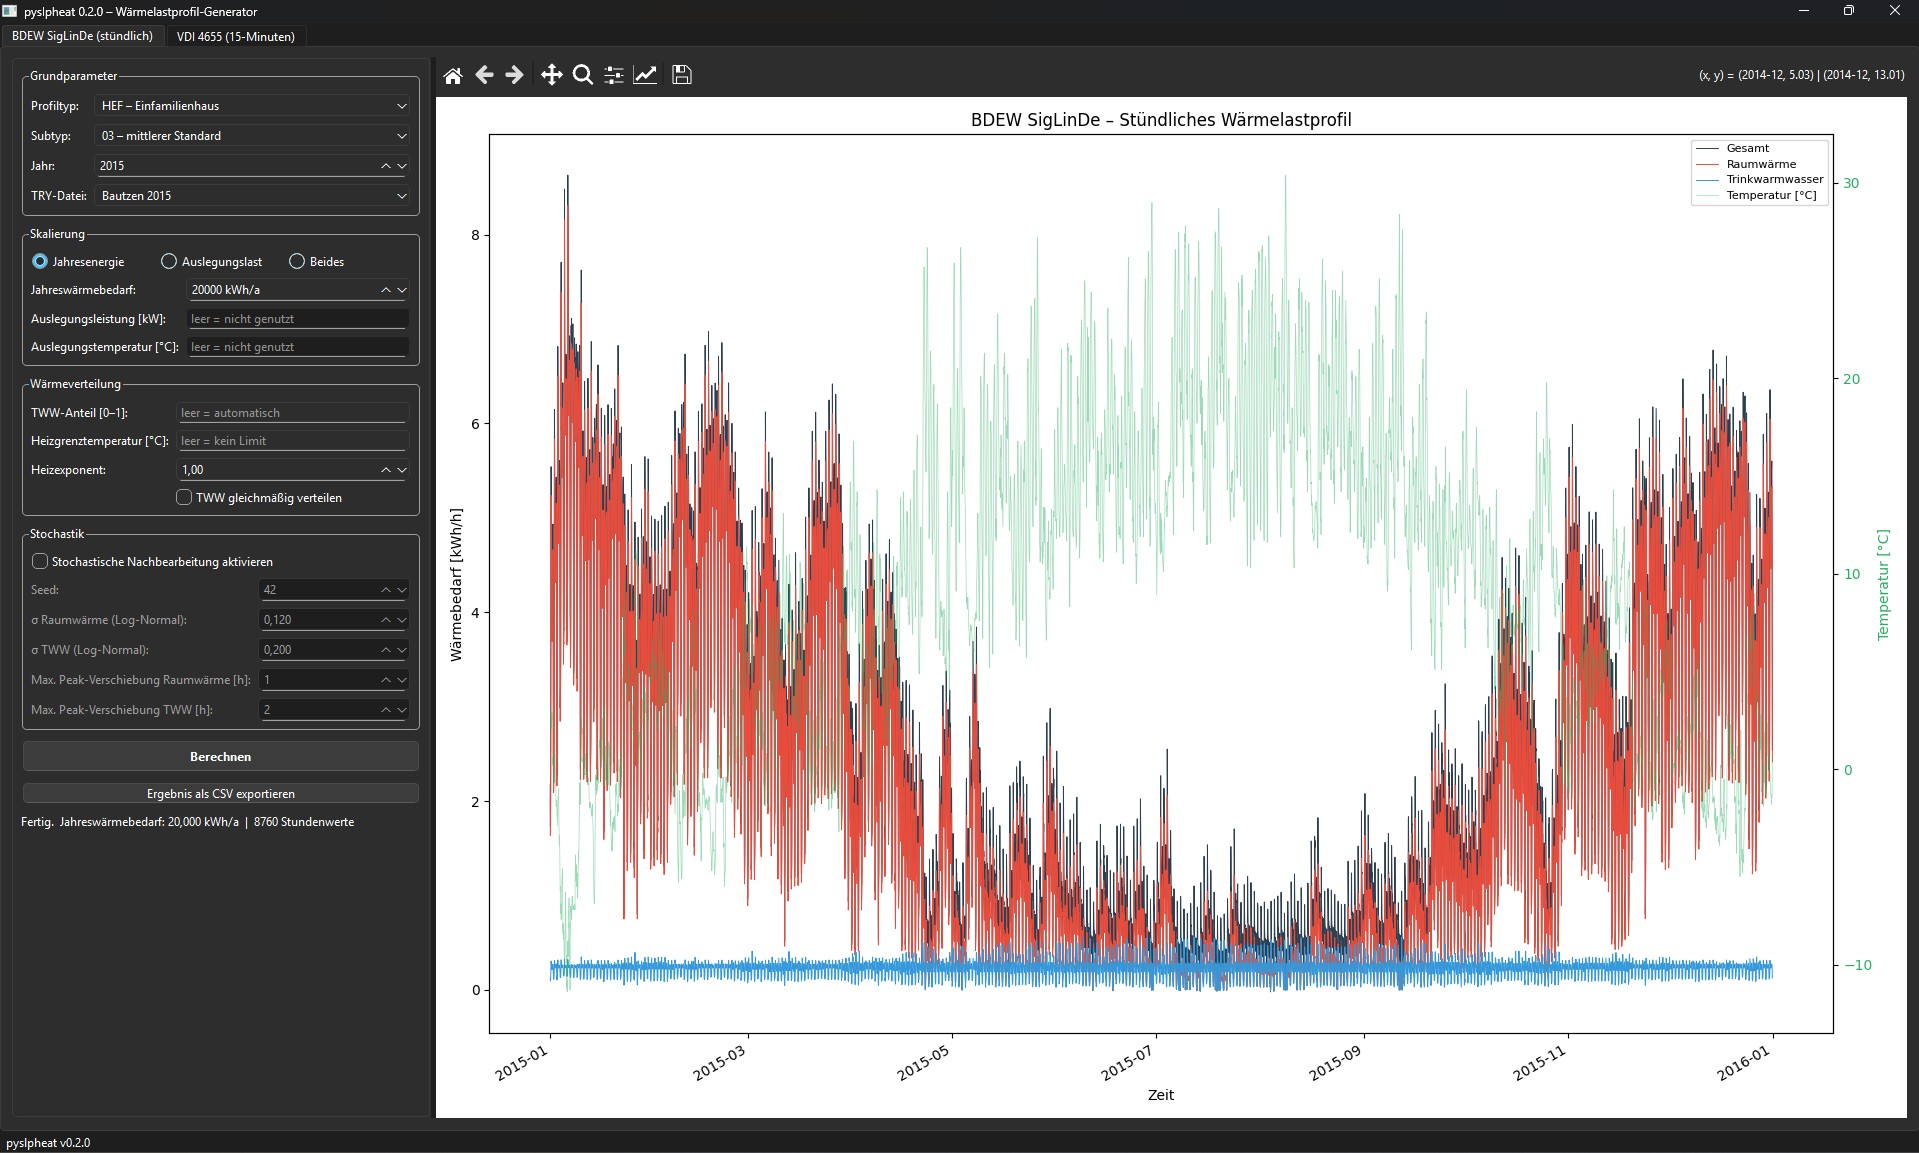
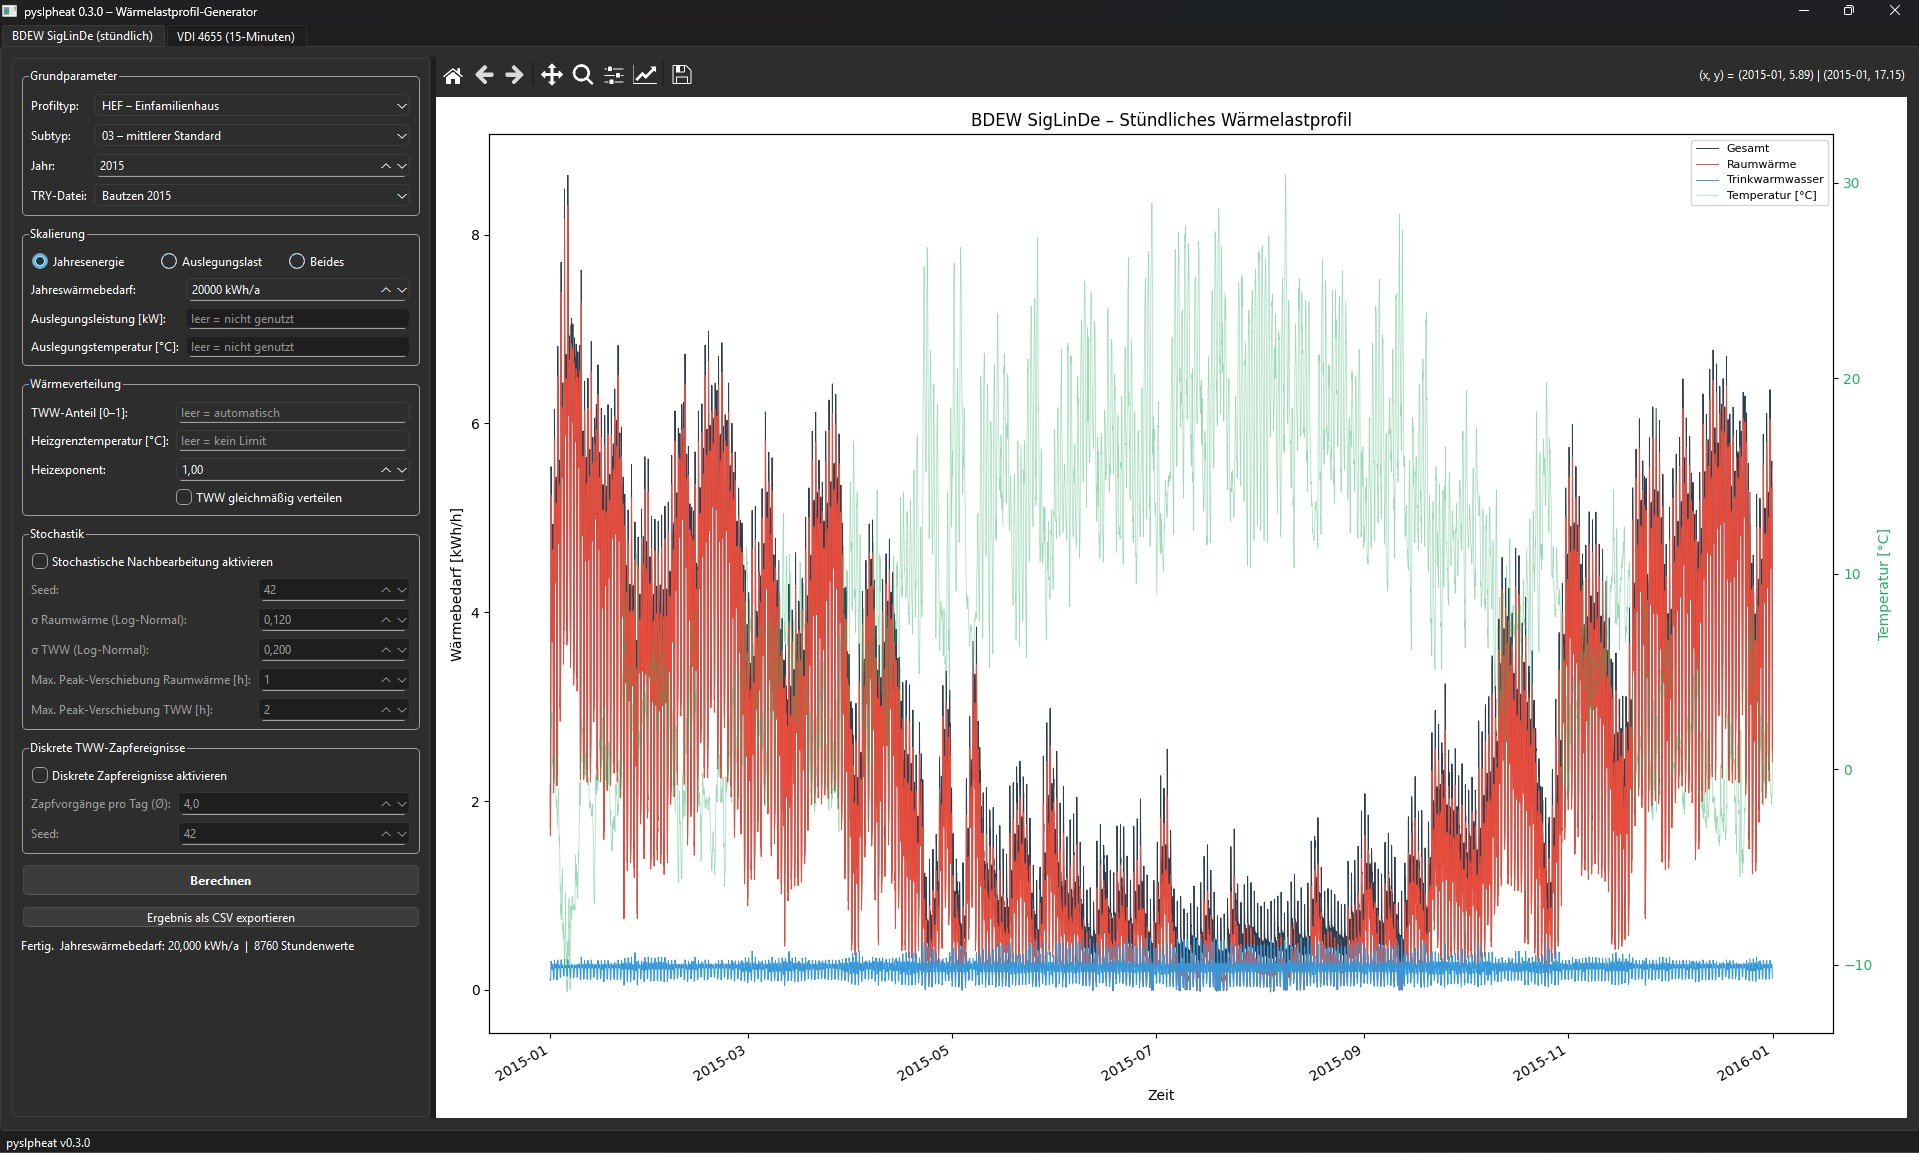
Bump version to 0.3.0 and update docs/README for dhw_draw_events
- CHANGELOG: add [0.3.0] entry
- README: remove DistrictHeatingSim from comparison table (pyslpheat is
  now a dependency of it, not a peer); add dhw_draw_events row to the
  "What pyslpheat does differently" table; update GUI description
- pyproject.toml + __init__.py: 0.2.0 → 0.3.0
- docs/img: updated GUI screenshots showing new DHW draw events group

Changed region(s): [[0.0, 0.6245, 0.2152, 0.7181], [0.0307, 0.7493, 0.1845, 0.843]]

diff --git a/pyslpheat/__init__.py b/pyslpheat/__init__.py
@@ -10,6 +10,8 @@ bdew
     Supports annual-energy scaling (Mode A), design-load scaling (Mode B),
     and combined scaling (Mode C). Optional stochastic post-processing
     (peak jitter + log-normal noise) via ``stochastic=True``.
+    Optional discrete DHW draw events (bimodal clustering, Poisson count)
+    via ``dhw_draw_events=True``.
 
 vdi4655
     VDI 4655 methodology (15-min, day-type based).
@@ -25,7 +27,7 @@ import os as _os
 from .bdew    import calculate as bdew_calculate      # noqa: F401
 from .vdi4655 import calculate as vdi4655_calculate   # noqa: F401
 
-__version__ = "0.2.0"
+__version__ = "0.3.0"
 __author__  = "Jonas Pfeiffer"
 
 __all__ = [

diff --git a/README.md b/README.md
@@ -63,8 +63,9 @@ The application has two tabs — one for each calculation standard:
 | BDEW SigLinDe | BDEW/VKU/GEODE SigLinDe | Hourly (8 760 values) |
 | VDI 4655 | VDI 4655 | 15-minute (35 040 values) |
 
-Both tabs offer the full parameter set including stochastic post-processing
-(BDEW) and automatic import of statutory German public holidays (VDI 4655).
+Both tabs offer the full parameter set including stochastic post-processing,
+discrete DHW draw events (BDEW), and automatic import of statutory German
+public holidays (VDI 4655).
 The six bundled Bautzen TRY files are selectable from a drop-down; custom
 TRY files can be loaded via a file browser.
 
@@ -106,11 +107,10 @@ The table below covers the actively maintained, pip/conda-installable tools.
 
 | Package | Install | Standards | Subtypes | Hourly shape | Peak scaling | Heating limit | Stochastic | TRY bundled |
 |---|---|---|---|---|---|---|---|---|
-| **pyslpheat** (this) | `pip install .` | BDEW SigLinDe, VDI 4655 | HEF/HMF 03–05, 33/34; all G-types 01–05, 33/34 | BGW hourly factors | ✓ Mode B/C (β-bisection) | ✓ | ✓ peak jitter + log-normal | ✓ 6 files (2015/2045 ×3) |
+| **pyslpheat** (this) | `pip install .` | BDEW SigLinDe, VDI 4655 | HEF/HMF 03–05, 33/34; all G-types 01–05, 33/34 | BGW hourly factors | ✓ Mode B/C (β-bisection) | ✓ | ✓ peak jitter + log-normal + discrete DHW draws | ✓ 6 files (2015/2045 ×3) |
 | **[oemof-demand](https://github.com/oemof/demandlib)** | `pip install oemof-demand` | BDEW SLP, VDI 4655 | building\_class 1–11, wind\_class 0/1 | BDEW hourly factors | ✗ | ✗ | ✗ | ✗ |
 | **[when2heat](https://github.com/oruhnau/when2heat)** | pip from repo | BDEW SLP | SFH / MFH / COM only | BGW hourly factors | ✗ | ✗ | ✗ | ✗ |
 | **[lpagg](https://github.com/jnettels/lpagg)** | conda | VDI 4655 | EFH / MFH | 15-min day-type profiles | ✗ | ✗ | ✓ random time-shift | ✗ |
-| **[DistrictHeatingSim](https://github.com/JonasPfeiffer123/DistrictHeatingSim)** | pip from repo | BDEW SigLinDe, VDI 4655 | HEF/HMF 03–05, 33/34; all G-types | BGW hourly factors | ✗ | ✗ | ✗ | ✗ |
 
 ### Broader ecosystem
 
@@ -145,6 +145,7 @@ BDEW shape unless explicitly requested:
 | `heating_exponent` | Power-law reshaping of the daily heating distribution: `>1` → sharper winter peaks, `<1` → flatter (same annual total) |
 | `peak_design_kW` + `design_temperature` | **Mode B/C** — constrains the design-day peak via bisection on a shape exponent β, simultaneously satisfying both the annual energy and the design load target |
 | `stochastic=True` | Adds day-level peak-time jitter (circular hourly shift) and log-normal amplitude noise with energy renormalization, producing statistically distinct realisations |
+| `dhw_draw_events=True` | Replaces the smooth DHW baseline with stochastic clustered draw events (bimodal morning/evening, Poisson count per day, log-normal amplitude); annual DHW energy preserved |
 
 **Relation to DistrictHeatingSim.**
 The BDEW and VDI 4655 modules were originally developed as part of

diff --git a/CHANGELOG.md b/CHANGELOG.md
@@ -2,6 +2,19 @@
 
 All notable changes to this project will be documented in this file.
 
+## [0.3.0] — 2026-03-26
+
+### Added
+- Discrete DHW draw events (`dhw_draw_events=True`) in `bdew.calculate()`:
+  replaces the smooth BDEW DHW baseline with stochastic clustered draw events
+  (bimodal morning/evening, Poisson draw count per day, log-normal amplitude);
+  annual DHW energy preserved by renormalisation
+- New parameters: `dhw_draws_per_day` (float, default 4.0) and `dhw_draw_seed`
+  (int, default 42), independent of the existing `stochastic_seed`
+- BDEW GUI tab: new "Diskrete TWW-Zapfereignisse" group with checkbox and
+  sub-parameters (same enable/disable pattern as Stochastik group)
+- Documentation: new section *Discrete DHW draw events* in `docs/DOCUMENTATION.md`
+
 ## [0.2.0] — 2026-03-26
 
 ### Added
